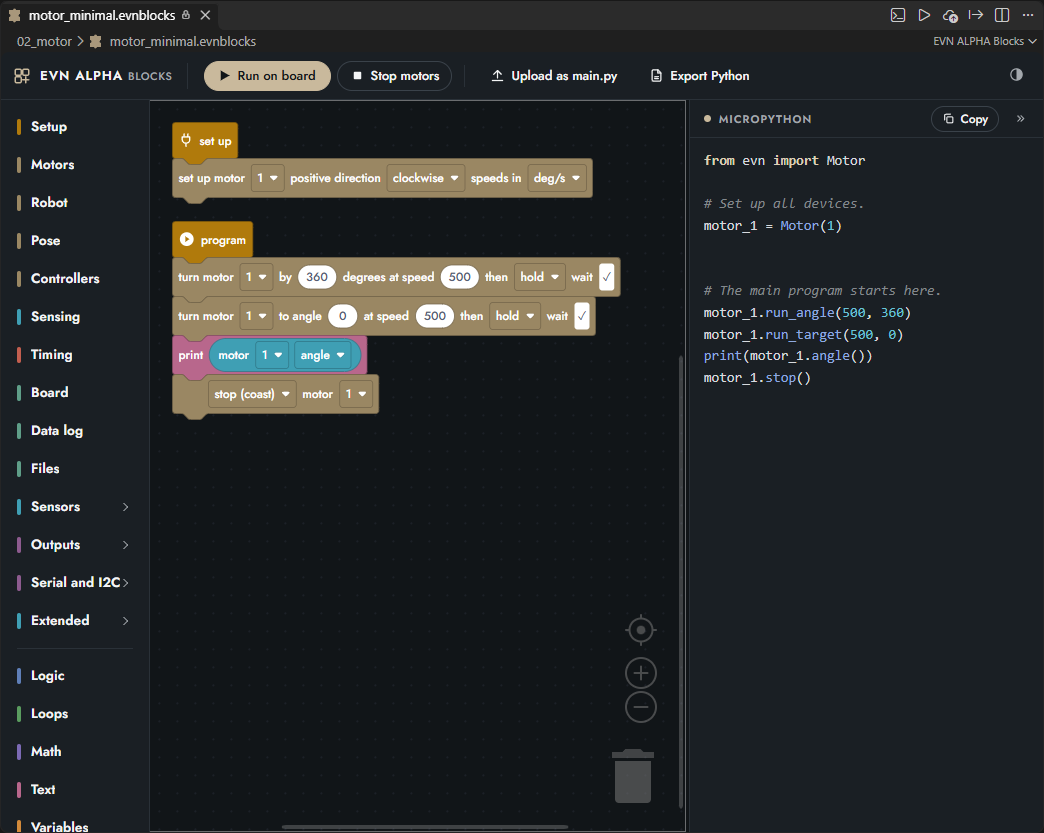
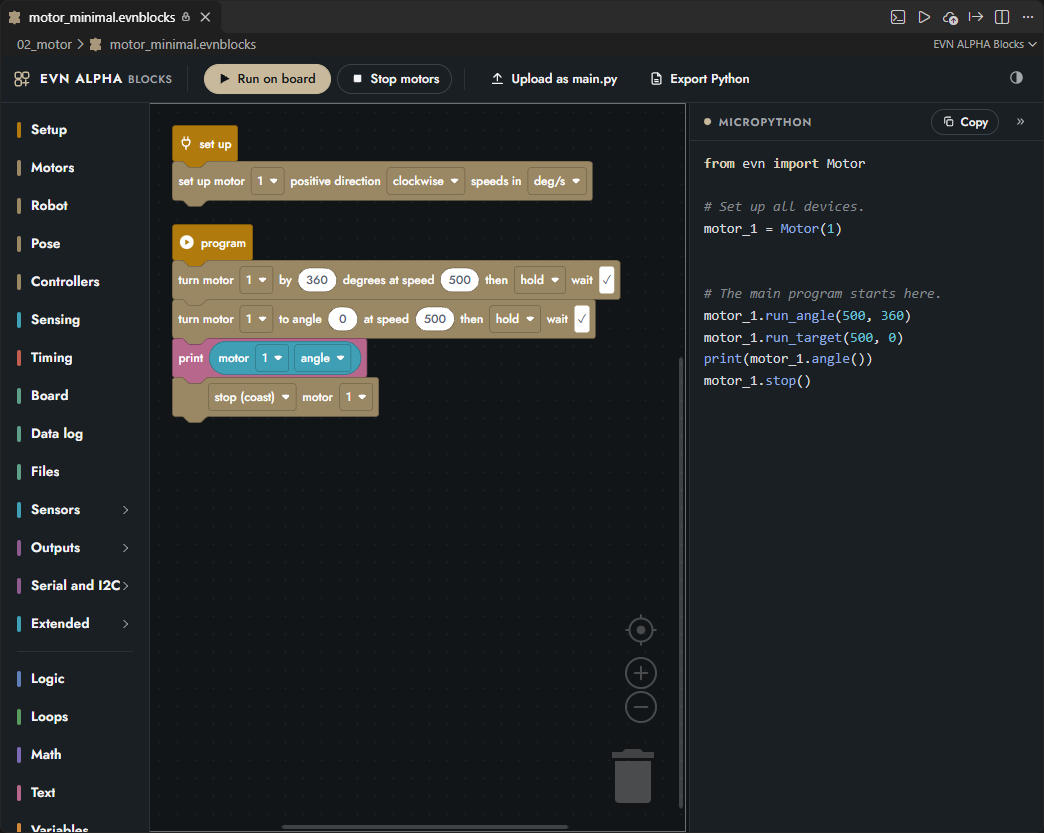
site: the docs describe the Examples tree's one row per object; the three docs screenshots retaken on 0.2.77 (from EVN_ALPHA_Performance main d91b38891)

diff --git a/docs/BLOCKS.md b/docs/BLOCKS.md
@@ -10,7 +10,7 @@ This page has three parts: **your first programs** (start here), **every block, 
 - Drag blocks from the **toolbox** on the left. Put the *set up* blocks under **set up**, the rest under **program** (see [Set up, then program](#set-up-then-program)). The **Python** pane on the right shows the program the blocks make; **Copy** puts it on the clipboard.
 - **Run on board** (or **Ctrl+F5**) saves the file and runs it. **Stop motors** (**Ctrl+Shift+F5**) stops it and lets every motor coast.
 - **Upload as main.py** puts the program on the board, so a press of the user button starts it after every power-on. **Export Python** saves it as a `.py` file to carry on in text.
-- **Examples**: the *Examples* list in the side bar has a folder for each part of the robot (the board, a motor, the robot, every sensor and output...). Each has a `…_minimal.evnblocks` (the few blocks you need) and a `…_complete.evnblocks` (every block of that part), next to the same programs in Python. **EVN: New project folder** copies them into `examples/`.
+- **Examples**: the *Examples* list in the side bar has a row for each part of the robot (the board, a motor, the robot, every sensor and output...); click one to choose which of its examples to open. Each has a `…_minimal.evnblocks` (the few blocks you need) and a `…_complete.evnblocks` (every block of that part), next to the same programs in Python. **EVN: New project folder** copies them into `examples/`.
 
 ![The blocks editor: the toolbox on the left, the set up and program start blocks with motor_minimal's blocks, and the MicroPython they generate on the right](images/blocks-editor.png)
 

diff --git a/README.md b/README.md
@@ -45,8 +45,8 @@ peripherals bench-validated.
    the board plugged in. The firmware travels inside the extension; a board in UF2 (BOOTSEL) mode is
    recognised and flashed without a COM port (a flash keeps your programs, files and calibrations), or
    restarted into the firmware it already has with **EVN: Restart the board without flashing**.
-3. **Run something.** Open the **EVN ALPHA** tab in the activity bar, open `motor_minimal` in the *Motor* folder under
-   *Examples*, plug a motor into port 1, and press **Ctrl+F5**.
+3. **Run something.** Open the **EVN ALPHA** tab in the activity bar, click *Motor* under *Examples* and choose
+   **Minimal · Python**, plug a motor into port 1, and press **Ctrl+F5**.
 
 The written guide is [Getting started](https://evn.coresg.tech/#/getting-started); the extension also has
 a six-step walkthrough (**EVN: Getting started walkthrough**).

diff --git a/docs/PROGRAMS.md b/docs/PROGRAMS.md
@@ -8,7 +8,7 @@ Open the **EVN ALPHA** tab in the activity bar (the ℕ icon). It has three sect
 
 - **Start**: **New Python program**, **New blocks program**, **Board panel**, **Documentation** and **Getting started**, then the [update row](COMMANDS.md#updates). The extension's version is beside the title; quote it in a bug report.
 - **My projects**: your own programs.
-- **Examples**: a folder for every part of the API.
+- **Examples**: one row for every part of the API (only the *Extended Peripherals* group is a folder to open); click a row to choose its minimal or complete example, in Python or in blocks.
 
 Two more views, *Board* and *Console*, are in the secondary side bar on the other side of the window ([The Board view](BOARD_VIEW.md)).
 

diff --git a/docs/GETTING_STARTED.md b/docs/GETTING_STARTED.md
@@ -81,7 +81,7 @@ Before it writes anything, the extension checks that its firmware file is comple
 
 Open the **EVN ALPHA** tab in the activity bar (the ℕ icon). It has *Start*, *My projects* and *Examples*.
 
-![The EVN ALPHA side bar: Start, My projects, and Examples with the Motor folder open on motor_minimal and motor_complete, in Python and in blocks](images/getting-started-sidebar.png)
+![The EVN ALPHA side bar: Start, My projects, and Examples with one row for each part of the API - Board, Motor, Robot, Pose and the sensors](images/getting-started-sidebar.png)
 
 1. Plug the motor into **motor port 1**. Keep its wheel off the ground.
 2. Under *Examples*, click **Motor** and choose *Minimal · Python* (`motor_minimal.py`).
